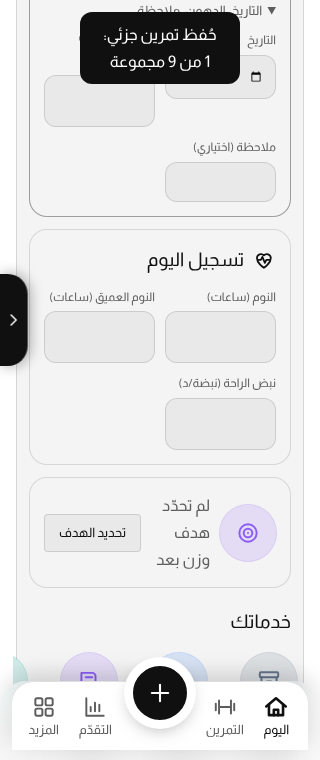
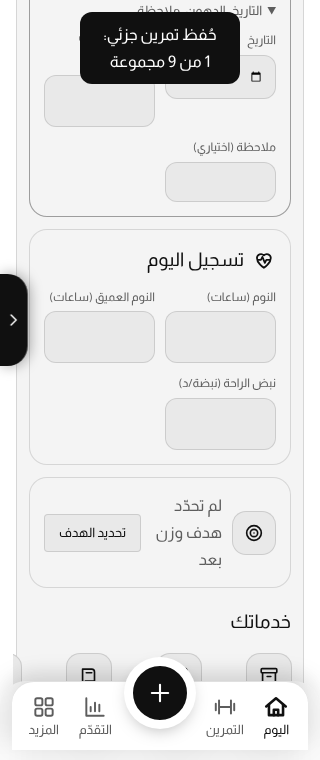
توحيد ألوان الأيقونات والنصوص وتصغير مقاساتها، وأيقونتا ترس وتعديل حقيقيتان
Claude-Session: https://claude.ai/code/session_01KyybtLNcTyHNYDyyNW1Vaq

diff --git a/app/fitness-tracker.html b/app/fitness-tracker.html
@@ -1197,6 +1197,22 @@ html[data-sj] body .x2w .r i{border-style:dashed!important;opacity:.5}
 .sjdh:after{content:"";position:absolute;inset:-14px -10px -14px 0}
 body.sjnodw .sjdw,body.sjnodw .sjds{display:none!important}
 @media (prefers-reduced-motion:reduce){.sjdw.anim,.sjds.anim{transition:none}}
+
+/* ===== توحيد الألوان والأحجام: أيقونات أحادية اللون بلون الثيم ===== */
+html[data-sj] body .sji,html[data-sj] body .fi{background:var(--sj-s2)!important;color:var(--sj-tx)!important;border:1px solid var(--sj-ln)!important;box-shadow:none!important}
+html[data-sj] body .sji{width:38px;height:38px;border-radius:12px}
+html[data-sj] body .sji .ico,html[data-sj] body .sji svg{width:20px;height:20px}
+html[data-sj] body .fi{width:44px;height:44px;border-radius:14px}
+html[data-sj] body .fi .ico,html[data-sj] body .fi svg{width:22px;height:22px}
+html[data-sj] body .ncr .fi{width:40px;height:40px}
+html[data-sj] body .rc .fi{width:46px;height:46px}
+html[data-sj] body .sjdw .dt .fi{width:54px;height:54px;border-radius:17px}
+html[data-sj] body .sjdw .dt .fi .ico,html[data-sj] body .sjdw .dt .fi svg{width:24px;height:24px}
+html[data-sj] body .sjdw .dt,html[data-sj] body .sjdw .dt span{color:var(--sj-tx)!important}
+html[data-sj] body .sjdw .dt span:not(.fi){font-size:13px;font-weight:600;opacity:1}
+html[data-sj] body .sjdw .dt .dx{width:22px;height:22px}
+html[data-sj] body .sjrow>.ico,html[data-sj] body .sjrow>svg{width:18px;height:18px;color:var(--sj-mu)}
+html[data-sj] body .sjchips>div,html[data-sj] body .sjgrid>button{padding:9px 12px}
 </style>
 
 <svg width="0" height="0" style="position:absolute" aria-hidden="true">
@@ -1222,7 +1238,7 @@ body.sjnodw .sjdw,body.sjnodw .sjds{display:none!important}
 <symbol id="i-back" viewBox="0 0 24 24"><path d="M9 6l6 6-6 6"/></symbol>
 <symbol id="i-next" viewBox="0 0 24 24"><path d="M15 6l-6 6 6 6"/></symbol>
 <symbol id="i-arrowl" viewBox="0 0 24 24"><path d="M19 12H5M11 6l-6 6 6 6"/></symbol>
-<symbol id="i-gear" viewBox="0 0 24 24"><circle cx="12" cy="12" r="3"/><path d="M12 2.5v3M12 18.5v3M2.5 12h3M18.5 12h3M5.3 5.3l2.1 2.1M16.6 16.6l2.1 2.1M18.7 5.3l-2.1 2.1M7.4 16.6l-2.1 2.1"/></symbol>
+<symbol id="i-gear" viewBox="0 0 24 24"><circle cx="12" cy="12" r="3"/><path d="M19.4 15a1.65 1.65 0 0 0 .33 1.82l.06.06a2 2 0 1 1-2.83 2.83l-.06-.06a1.65 1.65 0 0 0-1.82-.33 1.65 1.65 0 0 0-1 1.51V21a2 2 0 1 1-4 0v-.09A1.65 1.65 0 0 0 9 19.4a1.65 1.65 0 0 0-1.82.33l-.06.06a2 2 0 1 1-2.83-2.83l.06-.06a1.65 1.65 0 0 0 .33-1.82 1.65 1.65 0 0 0-1.51-1H3a2 2 0 1 1 0-4h.09A1.65 1.65 0 0 0 4.6 9a1.65 1.65 0 0 0-.33-1.82l-.06-.06a2 2 0 1 1 2.83-2.83l.06.06a1.65 1.65 0 0 0 1.82.33H9a1.65 1.65 0 0 0 1-1.51V3a2 2 0 1 1 4 0v.09a1.65 1.65 0 0 0 1 1.51 1.65 1.65 0 0 0 1.82-.33l.06-.06a2 2 0 1 1 2.83 2.83l-.06.06a1.65 1.65 0 0 0-.33 1.82V9a1.65 1.65 0 0 0 1.51 1H21a2 2 0 1 1 0 4h-.09a1.65 1.65 0 0 0-1.51 1z"/></symbol><symbol id="i-edit" viewBox="0 0 24 24"><path d="M12 20h9M16.5 3.5a2.1 2.1 0 0 1 3 3L7 19l-4 1 1-4z"/></symbol>
 <symbol id="i-grid" viewBox="0 0 24 24"><rect x="4" y="4" width="6.5" height="6.5" rx="1.6"/><rect x="13.5" y="4" width="6.5" height="6.5" rx="1.6"/><rect x="4" y="13.5" width="6.5" height="6.5" rx="1.6"/><rect x="13.5" y="13.5" width="6.5" height="6.5" rx="1.6"/></symbol><symbol id="i-search" viewBox="0 0 24 24"><circle cx="11" cy="11" r="6.5"/><path d="M16 16l4.5 4.5"/></symbol><symbol id="i-box" viewBox="0 0 24 24"><rect x="3.5" y="4" width="17" height="4.5" rx="1"/><path d="M5 8.5V19h14V8.5M10 12.5h4"/></symbol>
 <symbol id="i-chart" viewBox="0 0 24 24"><path d="M4 20V4M4 20h16M8 16v-4M12 16V8M16 16v-6"/></symbol>
 <symbol id="i-watch" viewBox="0 0 24 24"><rect x="7" y="6.5" width="10" height="11" rx="3"/><path d="M9 6.5l.7-3.5h4.6l.7 3.5M9 17.5l.7 3.5h4.6l.7-3.5M12 10v2.5l1.5 1"/></symbol>
@@ -5577,7 +5593,7 @@ document.addEventListener('toggle',ev=>{const d=ev.target;if(d&&d.classList&&d.c
  function body(){const dw=mk(),ed=!!UI.dwEd,pk=!!UI.dwPick,sc=scList();let b;
   if(pk){b='<div class="gr">'+FEATS.filter(f=>sc.indexOf(f.id)<0).map(f=>'<button class="dt" data-a="dwadd" data-id="'+f.id+'" type="button">'+fI(f)+'<span>'+f.t+'</span><i class="dx pl">'+ic('plus')+'</i></button>').join('')+'</div>'}
   else b='<div class="gr">'+sc.map(id=>{const f=FD[id];return ed?'<div class="dt ed">'+fI(f)+'<span>'+f.t+'</span><i class="dx" data-a="scdel" data-id="'+id+'" role="button" aria-label="حذف">'+ic('x')+'</i><span class="mv"><button type="button" data-a="scmv" data-id="'+id+'" data-d="-1" aria-label="تقديم">'+ic('back')+'</button><button type="button" data-a="scmv" data-id="'+id+'" data-d="1" aria-label="تأخير">'+ic('next')+'</button></span></div>':'<button class="dt" type="button" '+fA(f)+'>'+fI(f)+'<span>'+f.t+'</span></button>'}).join('')+(ed?'<button class="dt add" type="button" data-a="dwpick"><span class="fi">'+ic('plus')+'</span><span>إضافة</span></button>':'')+'</div>';
-  dw.querySelector('.in').innerHTML='<div class="hd"><b>'+(pk?'أضف اختصارًا':'اختصاراتي')+'</b>'+(pk?'<button type="button" data-a="dwpick" aria-label="رجوع">'+ic('next')+'</button>':'<button type="button" class="'+(ed?'on':'')+'" data-a="dwed" aria-label="'+(ed?'تم':'تعديل الاختصارات')+'">'+ic(ed?'check':'gear')+'</button>')+'<button type="button" data-a="dwx" aria-label="إغلاق">'+ic('x')+'</button></div>'+(ed&&!pk?'<div class="hint">احذف أو غيّر الترتيب أو أضف.</div>':'')+b}
+  dw.querySelector('.in').innerHTML='<div class="hd"><b>'+(pk?'أضف اختصارًا':'اختصاراتي')+'</b>'+(pk?'<button type="button" data-a="dwpick" aria-label="رجوع">'+ic('next')+'</button>':'<button type="button" class="'+(ed?'on':'')+'" data-a="dwed" aria-label="'+(ed?'تم':'تعديل الاختصارات')+'">'+ic(ed?'check':'edit')+'</button>')+'<button type="button" data-a="dwx" aria-label="إغلاق">'+ic('x')+'</button></div>'+(ed&&!pk?'<div class="hint">احذف أو غيّر الترتيب أو أضف.</div>':'')+b}
  window.dwOpen=ed=>{mk();if(ed){UI.dwEd=true;UI.dwPick=false}W=q('.sjdw').offsetWidth||W;fin(true)};
  window.dwClose=()=>{if(q('.sjdw'))fin(false)};
  /* مزامنة المحتوى والإظهار بعد كل رسم */

diff --git a/pwa/index.html b/pwa/index.html
@@ -1197,6 +1197,22 @@ html[data-sj] body .x2w .r i{border-style:dashed!important;opacity:.5}
 .sjdh:after{content:"";position:absolute;inset:-14px -10px -14px 0}
 body.sjnodw .sjdw,body.sjnodw .sjds{display:none!important}
 @media (prefers-reduced-motion:reduce){.sjdw.anim,.sjds.anim{transition:none}}
+
+/* ===== توحيد الألوان والأحجام: أيقونات أحادية اللون بلون الثيم ===== */
+html[data-sj] body .sji,html[data-sj] body .fi{background:var(--sj-s2)!important;color:var(--sj-tx)!important;border:1px solid var(--sj-ln)!important;box-shadow:none!important}
+html[data-sj] body .sji{width:38px;height:38px;border-radius:12px}
+html[data-sj] body .sji .ico,html[data-sj] body .sji svg{width:20px;height:20px}
+html[data-sj] body .fi{width:44px;height:44px;border-radius:14px}
+html[data-sj] body .fi .ico,html[data-sj] body .fi svg{width:22px;height:22px}
+html[data-sj] body .ncr .fi{width:40px;height:40px}
+html[data-sj] body .rc .fi{width:46px;height:46px}
+html[data-sj] body .sjdw .dt .fi{width:54px;height:54px;border-radius:17px}
+html[data-sj] body .sjdw .dt .fi .ico,html[data-sj] body .sjdw .dt .fi svg{width:24px;height:24px}
+html[data-sj] body .sjdw .dt,html[data-sj] body .sjdw .dt span{color:var(--sj-tx)!important}
+html[data-sj] body .sjdw .dt span:not(.fi){font-size:13px;font-weight:600;opacity:1}
+html[data-sj] body .sjdw .dt .dx{width:22px;height:22px}
+html[data-sj] body .sjrow>.ico,html[data-sj] body .sjrow>svg{width:18px;height:18px;color:var(--sj-mu)}
+html[data-sj] body .sjchips>div,html[data-sj] body .sjgrid>button{padding:9px 12px}
 </style>
 <script src="config.js"></script>
 
@@ -1223,7 +1239,7 @@ body.sjnodw .sjdw,body.sjnodw .sjds{display:none!important}
 <symbol id="i-back" viewBox="0 0 24 24"><path d="M9 6l6 6-6 6"/></symbol>
 <symbol id="i-next" viewBox="0 0 24 24"><path d="M15 6l-6 6 6 6"/></symbol>
 <symbol id="i-arrowl" viewBox="0 0 24 24"><path d="M19 12H5M11 6l-6 6 6 6"/></symbol>
-<symbol id="i-gear" viewBox="0 0 24 24"><circle cx="12" cy="12" r="3"/><path d="M12 2.5v3M12 18.5v3M2.5 12h3M18.5 12h3M5.3 5.3l2.1 2.1M16.6 16.6l2.1 2.1M18.7 5.3l-2.1 2.1M7.4 16.6l-2.1 2.1"/></symbol>
+<symbol id="i-gear" viewBox="0 0 24 24"><circle cx="12" cy="12" r="3"/><path d="M19.4 15a1.65 1.65 0 0 0 .33 1.82l.06.06a2 2 0 1 1-2.83 2.83l-.06-.06a1.65 1.65 0 0 0-1.82-.33 1.65 1.65 0 0 0-1 1.51V21a2 2 0 1 1-4 0v-.09A1.65 1.65 0 0 0 9 19.4a1.65 1.65 0 0 0-1.82.33l-.06.06a2 2 0 1 1-2.83-2.83l.06-.06a1.65 1.65 0 0 0 .33-1.82 1.65 1.65 0 0 0-1.51-1H3a2 2 0 1 1 0-4h.09A1.65 1.65 0 0 0 4.6 9a1.65 1.65 0 0 0-.33-1.82l-.06-.06a2 2 0 1 1 2.83-2.83l.06.06a1.65 1.65 0 0 0 1.82.33H9a1.65 1.65 0 0 0 1-1.51V3a2 2 0 1 1 4 0v.09a1.65 1.65 0 0 0 1 1.51 1.65 1.65 0 0 0 1.82-.33l.06-.06a2 2 0 1 1 2.83 2.83l-.06.06a1.65 1.65 0 0 0-.33 1.82V9a1.65 1.65 0 0 0 1.51 1H21a2 2 0 1 1 0 4h-.09a1.65 1.65 0 0 0-1.51 1z"/></symbol><symbol id="i-edit" viewBox="0 0 24 24"><path d="M12 20h9M16.5 3.5a2.1 2.1 0 0 1 3 3L7 19l-4 1 1-4z"/></symbol>
 <symbol id="i-grid" viewBox="0 0 24 24"><rect x="4" y="4" width="6.5" height="6.5" rx="1.6"/><rect x="13.5" y="4" width="6.5" height="6.5" rx="1.6"/><rect x="4" y="13.5" width="6.5" height="6.5" rx="1.6"/><rect x="13.5" y="13.5" width="6.5" height="6.5" rx="1.6"/></symbol><symbol id="i-search" viewBox="0 0 24 24"><circle cx="11" cy="11" r="6.5"/><path d="M16 16l4.5 4.5"/></symbol><symbol id="i-box" viewBox="0 0 24 24"><rect x="3.5" y="4" width="17" height="4.5" rx="1"/><path d="M5 8.5V19h14V8.5M10 12.5h4"/></symbol>
 <symbol id="i-chart" viewBox="0 0 24 24"><path d="M4 20V4M4 20h16M8 16v-4M12 16V8M16 16v-6"/></symbol>
 <symbol id="i-watch" viewBox="0 0 24 24"><rect x="7" y="6.5" width="10" height="11" rx="3"/><path d="M9 6.5l.7-3.5h4.6l.7 3.5M9 17.5l.7 3.5h4.6l.7-3.5M12 10v2.5l1.5 1"/></symbol>
@@ -5578,7 +5594,7 @@ document.addEventListener('toggle',ev=>{const d=ev.target;if(d&&d.classList&&d.c
  function body(){const dw=mk(),ed=!!UI.dwEd,pk=!!UI.dwPick,sc=scList();let b;
   if(pk){b='<div class="gr">'+FEATS.filter(f=>sc.indexOf(f.id)<0).map(f=>'<button class="dt" data-a="dwadd" data-id="'+f.id+'" type="button">'+fI(f)+'<span>'+f.t+'</span><i class="dx pl">'+ic('plus')+'</i></button>').join('')+'</div>'}
   else b='<div class="gr">'+sc.map(id=>{const f=FD[id];return ed?'<div class="dt ed">'+fI(f)+'<span>'+f.t+'</span><i class="dx" data-a="scdel" data-id="'+id+'" role="button" aria-label="حذف">'+ic('x')+'</i><span class="mv"><button type="button" data-a="scmv" data-id="'+id+'" data-d="-1" aria-label="تقديم">'+ic('back')+'</button><button type="button" data-a="scmv" data-id="'+id+'" data-d="1" aria-label="تأخير">'+ic('next')+'</button></span></div>':'<button class="dt" type="button" '+fA(f)+'>'+fI(f)+'<span>'+f.t+'</span></button>'}).join('')+(ed?'<button class="dt add" type="button" data-a="dwpick"><span class="fi">'+ic('plus')+'</span><span>إضافة</span></button>':'')+'</div>';
-  dw.querySelector('.in').innerHTML='<div class="hd"><b>'+(pk?'أضف اختصارًا':'اختصاراتي')+'</b>'+(pk?'<button type="button" data-a="dwpick" aria-label="رجوع">'+ic('next')+'</button>':'<button type="button" class="'+(ed?'on':'')+'" data-a="dwed" aria-label="'+(ed?'تم':'تعديل الاختصارات')+'">'+ic(ed?'check':'gear')+'</button>')+'<button type="button" data-a="dwx" aria-label="إغلاق">'+ic('x')+'</button></div>'+(ed&&!pk?'<div class="hint">احذف أو غيّر الترتيب أو أضف.</div>':'')+b}
+  dw.querySelector('.in').innerHTML='<div class="hd"><b>'+(pk?'أضف اختصارًا':'اختصاراتي')+'</b>'+(pk?'<button type="button" data-a="dwpick" aria-label="رجوع">'+ic('next')+'</button>':'<button type="button" class="'+(ed?'on':'')+'" data-a="dwed" aria-label="'+(ed?'تم':'تعديل الاختصارات')+'">'+ic(ed?'check':'edit')+'</button>')+'<button type="button" data-a="dwx" aria-label="إغلاق">'+ic('x')+'</button></div>'+(ed&&!pk?'<div class="hint">احذف أو غيّر الترتيب أو أضف.</div>':'')+b}
  window.dwOpen=ed=>{mk();if(ed){UI.dwEd=true;UI.dwPick=false}W=q('.sjdw').offsetWidth||W;fin(true)};
  window.dwClose=()=>{if(q('.sjdw'))fin(false)};
  /* مزامنة المحتوى والإظهار بعد كل رسم */

diff --git a/www/index.html b/www/index.html
@@ -1197,6 +1197,22 @@ html[data-sj] body .x2w .r i{border-style:dashed!important;opacity:.5}
 .sjdh:after{content:"";position:absolute;inset:-14px -10px -14px 0}
 body.sjnodw .sjdw,body.sjnodw .sjds{display:none!important}
 @media (prefers-reduced-motion:reduce){.sjdw.anim,.sjds.anim{transition:none}}
+
+/* ===== توحيد الألوان والأحجام: أيقونات أحادية اللون بلون الثيم ===== */
+html[data-sj] body .sji,html[data-sj] body .fi{background:var(--sj-s2)!important;color:var(--sj-tx)!important;border:1px solid var(--sj-ln)!important;box-shadow:none!important}
+html[data-sj] body .sji{width:38px;height:38px;border-radius:12px}
+html[data-sj] body .sji .ico,html[data-sj] body .sji svg{width:20px;height:20px}
+html[data-sj] body .fi{width:44px;height:44px;border-radius:14px}
+html[data-sj] body .fi .ico,html[data-sj] body .fi svg{width:22px;height:22px}
+html[data-sj] body .ncr .fi{width:40px;height:40px}
+html[data-sj] body .rc .fi{width:46px;height:46px}
+html[data-sj] body .sjdw .dt .fi{width:54px;height:54px;border-radius:17px}
+html[data-sj] body .sjdw .dt .fi .ico,html[data-sj] body .sjdw .dt .fi svg{width:24px;height:24px}
+html[data-sj] body .sjdw .dt,html[data-sj] body .sjdw .dt span{color:var(--sj-tx)!important}
+html[data-sj] body .sjdw .dt span:not(.fi){font-size:13px;font-weight:600;opacity:1}
+html[data-sj] body .sjdw .dt .dx{width:22px;height:22px}
+html[data-sj] body .sjrow>.ico,html[data-sj] body .sjrow>svg{width:18px;height:18px;color:var(--sj-mu)}
+html[data-sj] body .sjchips>div,html[data-sj] body .sjgrid>button{padding:9px 12px}
 </style>
 <script src="config.js"></script>
 
@@ -1223,7 +1239,7 @@ body.sjnodw .sjdw,body.sjnodw .sjds{display:none!important}
 <symbol id="i-back" viewBox="0 0 24 24"><path d="M9 6l6 6-6 6"/></symbol>
 <symbol id="i-next" viewBox="0 0 24 24"><path d="M15 6l-6 6 6 6"/></symbol>
 <symbol id="i-arrowl" viewBox="0 0 24 24"><path d="M19 12H5M11 6l-6 6 6 6"/></symbol>
-<symbol id="i-gear" viewBox="0 0 24 24"><circle cx="12" cy="12" r="3"/><path d="M12 2.5v3M12 18.5v3M2.5 12h3M18.5 12h3M5.3 5.3l2.1 2.1M16.6 16.6l2.1 2.1M18.7 5.3l-2.1 2.1M7.4 16.6l-2.1 2.1"/></symbol>
+<symbol id="i-gear" viewBox="0 0 24 24"><circle cx="12" cy="12" r="3"/><path d="M19.4 15a1.65 1.65 0 0 0 .33 1.82l.06.06a2 2 0 1 1-2.83 2.83l-.06-.06a1.65 1.65 0 0 0-1.82-.33 1.65 1.65 0 0 0-1 1.51V21a2 2 0 1 1-4 0v-.09A1.65 1.65 0 0 0 9 19.4a1.65 1.65 0 0 0-1.82.33l-.06.06a2 2 0 1 1-2.83-2.83l.06-.06a1.65 1.65 0 0 0 .33-1.82 1.65 1.65 0 0 0-1.51-1H3a2 2 0 1 1 0-4h.09A1.65 1.65 0 0 0 4.6 9a1.65 1.65 0 0 0-.33-1.82l-.06-.06a2 2 0 1 1 2.83-2.83l.06.06a1.65 1.65 0 0 0 1.82.33H9a1.65 1.65 0 0 0 1-1.51V3a2 2 0 1 1 4 0v.09a1.65 1.65 0 0 0 1 1.51 1.65 1.65 0 0 0 1.82-.33l.06-.06a2 2 0 1 1 2.83 2.83l-.06.06a1.65 1.65 0 0 0-.33 1.82V9a1.65 1.65 0 0 0 1.51 1H21a2 2 0 1 1 0 4h-.09a1.65 1.65 0 0 0-1.51 1z"/></symbol><symbol id="i-edit" viewBox="0 0 24 24"><path d="M12 20h9M16.5 3.5a2.1 2.1 0 0 1 3 3L7 19l-4 1 1-4z"/></symbol>
 <symbol id="i-grid" viewBox="0 0 24 24"><rect x="4" y="4" width="6.5" height="6.5" rx="1.6"/><rect x="13.5" y="4" width="6.5" height="6.5" rx="1.6"/><rect x="4" y="13.5" width="6.5" height="6.5" rx="1.6"/><rect x="13.5" y="13.5" width="6.5" height="6.5" rx="1.6"/></symbol><symbol id="i-search" viewBox="0 0 24 24"><circle cx="11" cy="11" r="6.5"/><path d="M16 16l4.5 4.5"/></symbol><symbol id="i-box" viewBox="0 0 24 24"><rect x="3.5" y="4" width="17" height="4.5" rx="1"/><path d="M5 8.5V19h14V8.5M10 12.5h4"/></symbol>
 <symbol id="i-chart" viewBox="0 0 24 24"><path d="M4 20V4M4 20h16M8 16v-4M12 16V8M16 16v-6"/></symbol>
 <symbol id="i-watch" viewBox="0 0 24 24"><rect x="7" y="6.5" width="10" height="11" rx="3"/><path d="M9 6.5l.7-3.5h4.6l.7 3.5M9 17.5l.7 3.5h4.6l.7-3.5M12 10v2.5l1.5 1"/></symbol>
@@ -5578,7 +5594,7 @@ document.addEventListener('toggle',ev=>{const d=ev.target;if(d&&d.classList&&d.c
  function body(){const dw=mk(),ed=!!UI.dwEd,pk=!!UI.dwPick,sc=scList();let b;
   if(pk){b='<div class="gr">'+FEATS.filter(f=>sc.indexOf(f.id)<0).map(f=>'<button class="dt" data-a="dwadd" data-id="'+f.id+'" type="button">'+fI(f)+'<span>'+f.t+'</span><i class="dx pl">'+ic('plus')+'</i></button>').join('')+'</div>'}
   else b='<div class="gr">'+sc.map(id=>{const f=FD[id];return ed?'<div class="dt ed">'+fI(f)+'<span>'+f.t+'</span><i class="dx" data-a="scdel" data-id="'+id+'" role="button" aria-label="حذف">'+ic('x')+'</i><span class="mv"><button type="button" data-a="scmv" data-id="'+id+'" data-d="-1" aria-label="تقديم">'+ic('back')+'</button><button type="button" data-a="scmv" data-id="'+id+'" data-d="1" aria-label="تأخير">'+ic('next')+'</button></span></div>':'<button class="dt" type="button" '+fA(f)+'>'+fI(f)+'<span>'+f.t+'</span></button>'}).join('')+(ed?'<button class="dt add" type="button" data-a="dwpick"><span class="fi">'+ic('plus')+'</span><span>إضافة</span></button>':'')+'</div>';
-  dw.querySelector('.in').innerHTML='<div class="hd"><b>'+(pk?'أضف اختصارًا':'اختصاراتي')+'</b>'+(pk?'<button type="button" data-a="dwpick" aria-label="رجوع">'+ic('next')+'</button>':'<button type="button" class="'+(ed?'on':'')+'" data-a="dwed" aria-label="'+(ed?'تم':'تعديل الاختصارات')+'">'+ic(ed?'check':'gear')+'</button>')+'<button type="button" data-a="dwx" aria-label="إغلاق">'+ic('x')+'</button></div>'+(ed&&!pk?'<div class="hint">احذف أو غيّر الترتيب أو أضف.</div>':'')+b}
+  dw.querySelector('.in').innerHTML='<div class="hd"><b>'+(pk?'أضف اختصارًا':'اختصاراتي')+'</b>'+(pk?'<button type="button" data-a="dwpick" aria-label="رجوع">'+ic('next')+'</button>':'<button type="button" class="'+(ed?'on':'')+'" data-a="dwed" aria-label="'+(ed?'تم':'تعديل الاختصارات')+'">'+ic(ed?'check':'edit')+'</button>')+'<button type="button" data-a="dwx" aria-label="إغلاق">'+ic('x')+'</button></div>'+(ed&&!pk?'<div class="hint">احذف أو غيّر الترتيب أو أضف.</div>':'')+b}
  window.dwOpen=ed=>{mk();if(ed){UI.dwEd=true;UI.dwPick=false}W=q('.sjdw').offsetWidth||W;fin(true)};
  window.dwClose=()=>{if(q('.sjdw'))fin(false)};
  /* مزامنة المحتوى والإظهار بعد كل رسم */
